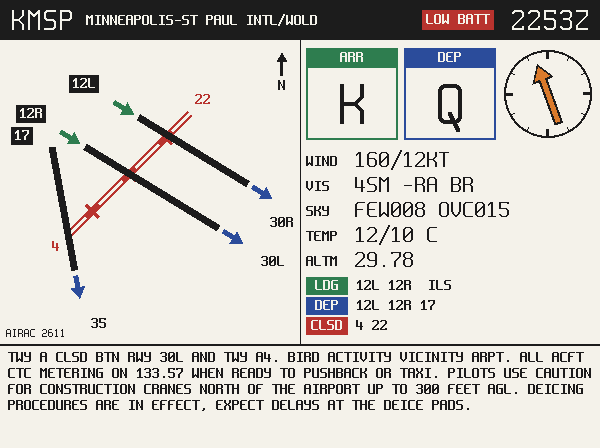
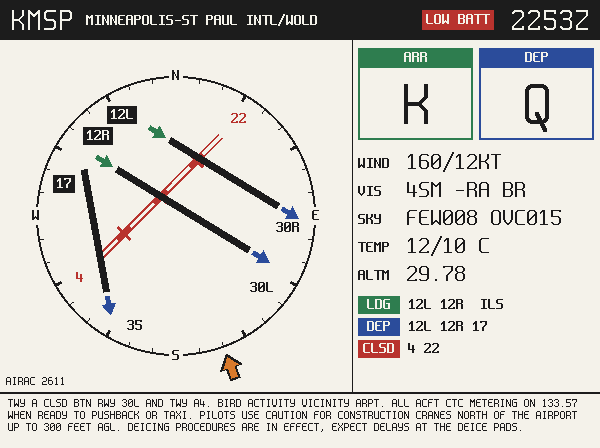
Draw the runways inside a compass rose with the wind arrow on its rim

diff --git a/firmware/inkplate_atis/src/render.cpp b/firmware/inkplate_atis/src/render.cpp
@@ -11,12 +11,12 @@ const int HEADER_HEIGHT = 40;
 const struct
 {
     int x, y, width, height;
-} DIAGRAM = {0, HEADER_HEIGHT, 300, 304};
+} DIAGRAM = {0, HEADER_HEIGHT, 352, 352};
 const struct
 {
     int x, y, width;
-} PANEL = {306, HEADER_HEIGHT + 8, 288};
-const int NOTES_TOP = 350;
+} PANEL = {358, HEADER_HEIGHT + 8, 236};
+const int NOTES_TOP = 398;
 
 bool contains(const std::vector<std::string> &list, const char *name)
 {
@@ -60,9 +60,16 @@ void drawHeader(Canvas &canvas, const Airport &airport, const AtisState *atis, b
 // Runway diagram
 // ---------------------------------------------------------------------------
 
-const int DIAGRAM_MARGIN = 52;
-const int ARROW_GAP = 5;
-const int ARROW_LENGTH = 24;
+const int ARROW_GAP = 4;
+const int ARROW_LENGTH = 20;
+// The compass rose fills the pane, less the room the wind arrow needs outside it.
+const int WIND_GAP = 6;
+const int WIND_LENGTH = 28;
+const int ROSE_RADIUS = DIAGRAM.width / 2 - WIND_GAP - WIND_LENGTH - 2;
+const int ROSE_TICK = 8;
+// Runway ends stay far enough inside the rose for a landing or departure arrow
+// that clears the ticks and cardinal letters.
+const int RUNWAY_RADIUS = ROSE_RADIUS - ROSE_TICK - 5 - ARROW_GAP - ARROW_LENGTH;
 
 struct Box
 {
@@ -87,8 +94,6 @@ struct Label
     int height;
     LabelStyle style;
 };
-
-double clamp(double value, double low, double high) { return std::max(low, std::min(high, value)); }
 
 /** True when the boxes come within `gap` pixels of each other. */
 bool overlaps(const Box &a, const Box &b, double gap = 3)
@@ -131,17 +136,55 @@ void drawArrow(Canvas &canvas, Point tail, Point tip, Ink ink, double shaft = 5,
     canvas.fillPolygon(outline, 7, ink);
 }
 
-void drawNorthMark(Canvas &canvas, double x, double y)
+/** The ring, its ticks and cardinal letters. North is up. */
+void drawRose(Canvas &canvas, double cx, double cy)
 {
-    drawArrow(canvas, {x, y + 12}, {x, y - 12}, INK_BLACK, 3, 11, 10);
-    canvas.text(FONT_SMALL, x - 4, y + 14, "N", INK_BLACK);
+    canvas.fillCircle(cx, cy, ROSE_RADIUS, INK_BLACK);
+    canvas.fillCircle(cx, cy, ROSE_RADIUS - 2, INK_WHITE);
+    static const char *const CARDINALS[] = {"N", "E", "S", "W"};
+    for (int degrees = 0; degrees < 360; degrees += 10)
+    {
+        const double radians = (degrees * M_PI) / 180;
+        const double ux = sin(radians), uy = -cos(radians);
+        if (degrees % 90 == 0)
+        {
+            // The letter sits on the ring itself, so it costs the runways no room.
+            const double x = cx + ux * ROSE_RADIUS, y = cy + uy * ROSE_RADIUS;
+            canvas.fillRect(x - 7, y - 9, 14, 18, INK_WHITE);
+            canvas.text(FONT_SMALL, x - 4, y - 8, CARDINALS[degrees / 90], INK_BLACK);
+            continue;
+        }
+        const bool major = degrees % 30 == 0;
+        const double inner = ROSE_RADIUS - (major ? ROSE_TICK : 6);
+        canvas.line({cx + ux * inner, cy + uy * inner}, {cx + ux * (ROSE_RADIUS - 1), cy + uy * (ROSE_RADIUS - 1)},
+                    INK_BLACK, major ? 3 : 1);
+    }
+}
+
+/** An arrow outside the rose at the bearing the wind comes from, flying with the wind. */
+void drawWind(Canvas &canvas, double cx, double cy, const Wind &wind)
+{
+    if (!wind.known)
+        return;
+    if (wind.speed == 0 || !wind.hasDirection)
+    {
+        canvas.text(FONT_SMALL, DIAGRAM.x + 6, DIAGRAM.y + 6, wind.speed == 0 ? "WIND CALM" : "WIND VRB", INK_BLACK);
+        return;
+    }
+    const double radians = (wind.direction * M_PI) / 180;
+    const double ux = sin(radians), uy = -cos(radians);
+    const double near = ROSE_RADIUS + WIND_GAP, far = near + WIND_LENGTH;
+    const Point tail = {cx + ux * far, cy + uy * far};
+    const Point tip = {cx + ux * near, cy + uy * near};
+    drawArrow(canvas, tail, tip, INK_BLACK, 11, 25, 16);
+    drawArrow(canvas, shift(tail, tip, 2), shift(tip, tail, 4), INK_ORANGE, 7, 17, 11);
 }
 
 /** Label offsets (sideways, outwards) in pixels, nearest first. */
 std::vector<Point> labelNudges()
 {
     std::vector<Point> nudges;
-    for (const double outwards : {0, 12, 24, 36})
+    for (const double outwards : {0, 12, -12, 24, -24, 36, -36})
         for (const double sideways : {0, 14, -14, 28, -28, 42, -42})
             nudges.push_back({sideways, outwards});
     std::stable_sort(nudges.begin(), nudges.end(),
@@ -158,25 +201,38 @@ void drawDiagram(Canvas &canvas, const Airport &airport, const AtisState *atis)
     const std::vector<std::string> &departing = atis != nullptr ? atis->runways.departing : NO_RUNWAYS;
     const std::vector<std::string> &closed = atis != nullptr ? atis->runways.closed : NO_RUNWAYS;
 
-    double minX = airport.pavements[0].ends[0].x, maxX = minX;
-    double minY = airport.pavements[0].ends[0].y, maxY = minY;
-    for (int i = 0; i < airport.pavementCount; i++)
-    {
-        for (const PavementEnd &end : airport.pavements[i].ends)
-        {
-            minX = std::min(minX, end.x);
-            maxX = std::max(maxX, end.x);
-            minY = std::min(minY, end.y);
-            maxY = std::max(maxY, end.y);
-        }
-    }
-    const double scale = std::min((DIAGRAM.width - 2 * DIAGRAM_MARGIN) / std::max(1.0, maxX - minX),
-                                  (DIAGRAM.height - 2 * DIAGRAM_MARGIN) / std::max(1.0, maxY - minY));
     const double centreX = DIAGRAM.x + DIAGRAM.width / 2.0;
     const double centreY = DIAGRAM.y + DIAGRAM.height / 2.0;
+    drawRose(canvas, centreX, centreY);
+    if (atis != nullptr)
+        drawWind(canvas, centreX, centreY, atis->weather.wind);
+
+    // Fit the smallest circle around every runway end inside the rose: walk the
+    // centre towards whichever end is farthest, in ever smaller steps.
+    double midX = 0, midY = 0, reach = 1;
+    for (int step = 1; step <= 400; step++)
+    {
+        const PavementEnd *farthest = nullptr;
+        reach = -1;
+        for (int i = 0; i < airport.pavementCount; i++)
+        {
+            for (const PavementEnd &end : airport.pavements[i].ends)
+            {
+                const double distance = hypot(end.x - midX, end.y - midY);
+                if (distance > reach)
+                {
+                    reach = distance;
+                    farthest = &end;
+                }
+            }
+        }
+        midX += (farthest->x - midX) / step;
+        midY += (farthest->y - midY) / step;
+    }
+    const double scale = RUNWAY_RADIUS / std::max(1.0, reach);
     // North up: screen y grows downwards.
     const auto project = [&](const PavementEnd &end) {
-        return Point{centreX + (end.x - (minX + maxX) / 2) * scale, centreY - (end.y - (minY + maxY) / 2) * scale};
+        return Point{centreX + (end.x - midX) * scale, centreY - (end.y - midY) * scale};
     };
 
     const auto isClosed = [&](const Pavement &strip) {
@@ -218,9 +274,20 @@ void drawDiagram(Canvas &canvas, const Airport &airport, const AtisState *atis)
         }
     }
 
-    // The north mark and AIRAC caption are fixed; labels must stay clear of them.
-    std::vector<Box> occupied = {{DIAGRAM.x + DIAGRAM.width - 30.0, DIAGRAM.y + 8.0, 24, 50},
-                                 {DIAGRAM.x + 4.0, DIAGRAM.y + DIAGRAM.height - 18.0, 70, 16}};
+    // Labels must stay clear of the pavement, the arrows and each other.
+    std::vector<Box> occupied;
+    for (const Pavement *strip : ordered)
+    {
+        const Point a = project(strip->ends[0]);
+        const Point b = project(strip->ends[1]);
+        const double width = std::max(7.0, strip->widthFt * scale);
+        const int samples = std::max(1, (int)(hypot(b.x - a.x, b.y - a.y) / 5));
+        for (int i = 0; i <= samples; i++)
+        {
+            const double t = (double)i / samples;
+            occupied.push_back({a.x + (b.x - a.x) * t - width / 2, a.y + (b.y - a.y) * t - width / 2, width, width});
+        }
+    }
     std::vector<Label> labels;
     for (int i = 0; i < airport.pavementCount; i++)
     {
@@ -272,12 +339,21 @@ void drawDiagram(Canvas &canvas, const Airport &airport, const AtisState *atis)
         for (size_t n = 0; n < nudges.size() && !found; n++)
         {
             const double sideways = nudges[n].x, outwards = nudges[n].y;
-            const Box candidate = {
-                clamp(roundHalfUp(label.anchor.x + label.side.x * sideways + label.out.x * outwards - label.width / 2.0),
-                      DIAGRAM.x + 2, DIAGRAM.x + DIAGRAM.width - label.width - 3),
-                clamp(roundHalfUp(label.anchor.y + label.side.y * sideways + label.out.y * outwards - label.height / 2.0),
-                      DIAGRAM.y + 2, DIAGRAM.y + DIAGRAM.height - label.height - 2),
-                (double)label.width, (double)label.height};
+            double x = label.anchor.x + label.side.x * sideways + label.out.x * outwards;
+            double y = label.anchor.y + label.side.y * sideways + label.out.y * outwards;
+            // Pull the box towards the centre until all of it is inside the rose's ticks.
+            const double limit = ROSE_RADIUS - ROSE_TICK - 2;
+            for (int pull = 0; pull < 80; pull++)
+            {
+                if (hypot(fabs(x - centreX) + label.width / 2.0, fabs(y - centreY) + label.height / 2.0) <= limit)
+                    break;
+                const Point pulled = shift({x, y}, {centreX, centreY}, 2);
+                x = pulled.x;
+                y = pulled.y;
+            }
+            const Box candidate = {(double)roundHalfUp(x - label.width / 2.0),
+                                   (double)roundHalfUp(y - label.height / 2.0), (double)label.width,
+                                   (double)label.height};
             if (n == 0)
                 chosen = candidate;
             found = true;
@@ -295,7 +371,6 @@ void drawDiagram(Canvas &canvas, const Airport &airport, const AtisState *atis)
 
     canvas.text(FONT_TINY, DIAGRAM.x + 6, DIAGRAM.y + DIAGRAM.height - 16, std::string("AIRAC ") + airport.airac,
                 INK_BLACK);
-    drawNorthMark(canvas, DIAGRAM.x + DIAGRAM.width - 18, DIAGRAM.y + 24);
 }
 
 // ---------------------------------------------------------------------------
@@ -305,41 +380,7 @@ void drawDiagram(Canvas &canvas, const Airport &airport, const AtisState *atis)
 const struct
 {
     int width, height, gap;
-} BOX = {92, 92, 6};
-
-void drawWindRose(Canvas &canvas, double cx, double cy, const Wind &wind)
-{
-    const double radius = 44;
-    canvas.fillCircle(cx, cy, radius, INK_BLACK);
-    canvas.fillCircle(cx, cy, radius - 2, INK_WHITE);
-    for (int degrees = 0; degrees < 360; degrees += 30)
-    {
-        const double radians = (degrees * M_PI) / 180;
-        const double inner = degrees % 90 == 0 ? radius - 9 : radius - 6;
-        canvas.line({cx + sin(radians) * inner, cy - cos(radians) * inner},
-                    {cx + sin(radians) * (radius - 1), cy - cos(radians) * (radius - 1)}, INK_BLACK,
-                    degrees % 90 == 0 ? 3 : 1);
-    }
-    if (!wind.known)
-        return;
-    if (wind.speed == 0)
-    {
-        canvas.text(FONT_SMALL, cx - 16, cy - 8, "CALM", INK_BLACK);
-        return;
-    }
-    if (!wind.hasDirection)
-    {
-        canvas.text(FONT_SMALL, cx - 12, cy - 8, "VRB", INK_BLACK);
-        return;
-    }
-    // The arrow flies with the wind: tail at the direction it blows from.
-    const double radians = (wind.direction * M_PI) / 180;
-    const double reach = radius - 12;
-    const Point from = {cx + sin(radians) * reach, cy - cos(radians) * reach};
-    const Point to = {cx - sin(radians) * reach, cy + cos(radians) * reach};
-    drawArrow(canvas, from, to, INK_BLACK, 9, 23, 18);
-    drawArrow(canvas, shift(from, to, 2), shift(to, from, 3), INK_ORANGE, 5, 17, 13);
-}
+} BOX = {(PANEL.width - 6) / 2, 92, 6};
 
 void drawBroadcasts(Canvas &canvas, const AtisState &atis)
 {
@@ -356,14 +397,12 @@ void drawBroadcasts(Canvas &canvas, const AtisState &atis)
         canvas.text(FONT_HUGE, x + (BOX.width - FONT_HUGE.cellWidth) / 2.0, PANEL.y + 24, broadcast.code.substr(0, 1),
                     INK_BLACK);
     }
-    drawWindRose(canvas, PANEL.x + 2 * (BOX.width + BOX.gap) + BOX.width / 2.0, PANEL.y + BOX.height / 2.0,
-                 atis.weather.wind);
 }
 
 const struct
 {
     int top, pitch, valueX;
-} ROW = {PANEL.y + BOX.height + 8, 25, PANEL.x + 48};
+} ROW = {PANEL.y + BOX.height + 10, 28, PANEL.x + 48};
 
 std::string formatWind(const Wind &wind)
 {
@@ -430,7 +469,7 @@ void drawWeather(Canvas &canvas, const Weather &weather)
 const struct
 {
     int top, pitch, tagWidth;
-} USE = {ROW.top + 5 * ROW.pitch + 4, 20, 42};
+} USE = {ROW.top + 5 * ROW.pitch + 6, 22, 42};
 
 void drawRunwayUse(Canvas &canvas, const RunwayUse &runways)
 {

diff --git a/README.md b/README.md
@@ -95,6 +95,8 @@ bun run extract KMSP ~/Documents/SimToolkitPro/navdata.s3db
 
 - Solid black runways are in use, outlined ones are idle, red ones with crosses are closed.
 - Green arrows show landing direction, blue arrows departure direction.
-- The compass arrow points the way the wind is blowing.
+- The runways sit inside a compass rose, north up. The orange arrow on its rim
+  marks where the wind comes from and points the way it blows, so it lines up
+  with the runways in use. Calm and variable winds are written in the corner instead.
 
 Fonts are [Spleen](https://github.com/fcambus/spleen) (BSD 2-Clause).
